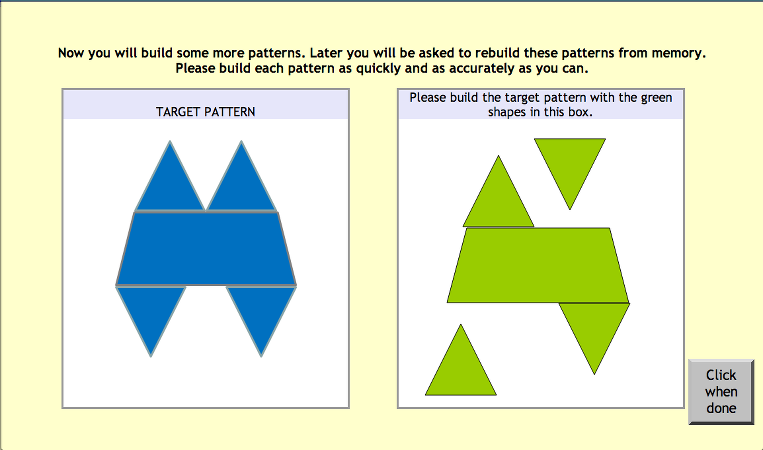
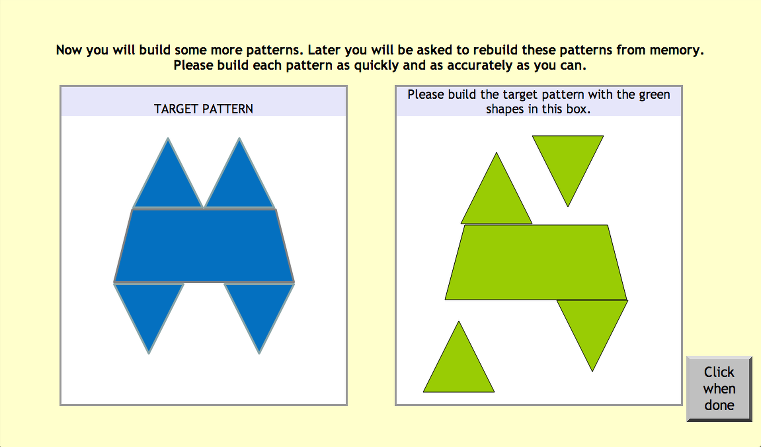
Update to projects 1-4, update to my description

diff --git a/_site/index.html b/_site/index.html
@@ -47,7 +47,7 @@
 	</div>
 
 	<div class="about-blurb">
-		<p><strong>Travis specializes in making things</strong> for human people. Most of the things he makes are <a href="http://travisneilson.com">digital interfaces</a>, but he also puts effort into crafting <a href="http://soundcloud.com/travis-neilson">next-level beats</a> and <a href="http://youtube.com/user/devtipsfordesigners">YouTube videos</a> about making codes happen.</p>
+		<p><strong>Kevin is a user experience researcher</strong>. He is currently doing his Master's degree at <a href="https://www.ucl.ac.uk/uclic">University College London</a>. He is passionate about studying interaction design, information architecture, and data visualization.</p>
 	</div>
 
 <div class='skill-lockup'>
@@ -257,9 +257,9 @@
 		
 		<a href="https://ca.linkedin.com/in/kevinbudiman" class="icon-linkedin"></a>
 		
-		<a href="" class="icon-instagram"></a>
+		<a href="https://instagram.com/jkevinbudiman" class="icon-instagram"></a>
 		
-		<a href="" class="icon-twitter"></a>
+		<a href="https://twitter.com/jkbudiman" class="icon-twitter"></a>
 		
 
 	</div>

diff --git a/_site/work/proj-3.html b/_site/work/proj-3.html
@@ -1,3 +1,10 @@
-<img src="assets/img/work/proj-3/img1.png" alt="C-TOC Pattern Construction">
+<img src="assets/img/work/proj-3/img2.png" alt="C-TOC Pattern Construction">
 
-<p>Part of the Cognitive Testing on the Computer battery of tests, the goal of this CTOC subtest was to assess the arithmetic abilities of seniors and evaluate the length of time to solve the equations. I used jQuery to access each DOM elements and assign functionalities for the UI in this task (eg. the buttons, images, etc). Scoring for this test is based on whether user answered each equation.</p>
+<p>Cognitive Testing on the Computer (C-TOC) is a series of cognitive tests that are administered to seniors in order to capture early signs of cognitive impairments. 
+
+<br />
+<br />
+	I implemented the arithmetic portion of C-TOC to assess whether seniors were able to construct the correct shape based on the provided patterns. In my implementation, I utilized RaphaelJS to construct these shapes and to make them draggable.
+</p>
+
+<img src="assets/img/work/proj-3/img1.png" alt="C-TOC Pattern Construction">

diff --git a/_site/work/proj-1.html b/_site/work/proj-1.html
@@ -1,7 +1,8 @@
 <img src="assets/img/work/proj-1/img1.png" alt="C-TOC Arithmetic">
 
-<p>Part of the Cognitive Testing on the Computer battery of tests, the goal of this CTOC subtest was to assess the arithmetic abilities of seniors and evaluate the length of time to solve the equations. I used jQuery to access each DOM elements and assign functionalities for the UI in this task (eg. the buttons, images, etc). Scoring for this test is based on whether user answered each equation.</p>
+<p>Cognitive Testing on the Computer (C-TOC) is a series of cognitive tests that are administered to seniors in order to capture early signs of cognitive impairments. 
 
-
-<img src="assets/img/work/proj-1/img1.png" alt="C-TOC Arithmetic">
-<img src="assets/img/work/proj-1/img1.png" alt="C-TOC Arithmetic">
+<br />
+<br />
+	I implemented the arithmetic portion of C-TOC to assess the arithmetic abilities of and record the time taken for seniors to solve each equation. I used jQuery to assign functionalities for each user interface elements in this task.
+</p>

diff --git a/_site/work/proj-2.html b/_site/work/proj-2.html
@@ -1,6 +1,3 @@
 <img src="assets/img/work/proj-2/nom1.png" alt="Where My Noms At">
 
-<p>Part of the Cognitive Testing on the Computer battery of tests, the goal of this CTOC subtest was to assess the arithmetic abilities of seniors and evaluate the length of time to solve the equations. I used jQuery to access each DOM elements and assign functionalities for the UI in this task (eg. the buttons, images, etc). Scoring for this test is based on whether user answered each equation.</p>
-
-
-<img src="assets/img/work/proj-1/img1.png" alt="C-TOC Arithmetic">
+<p>Where My Noms At was a project done in my Software Engineering course. This project allowed me to experiment and learn web development. I was solely responsible for implementing the Google Maps API onto this website. The project also gave me the chance to familiarize myself with Model-View-Controller frameworks. We used PHP Laravel for our project's framework.</p>
